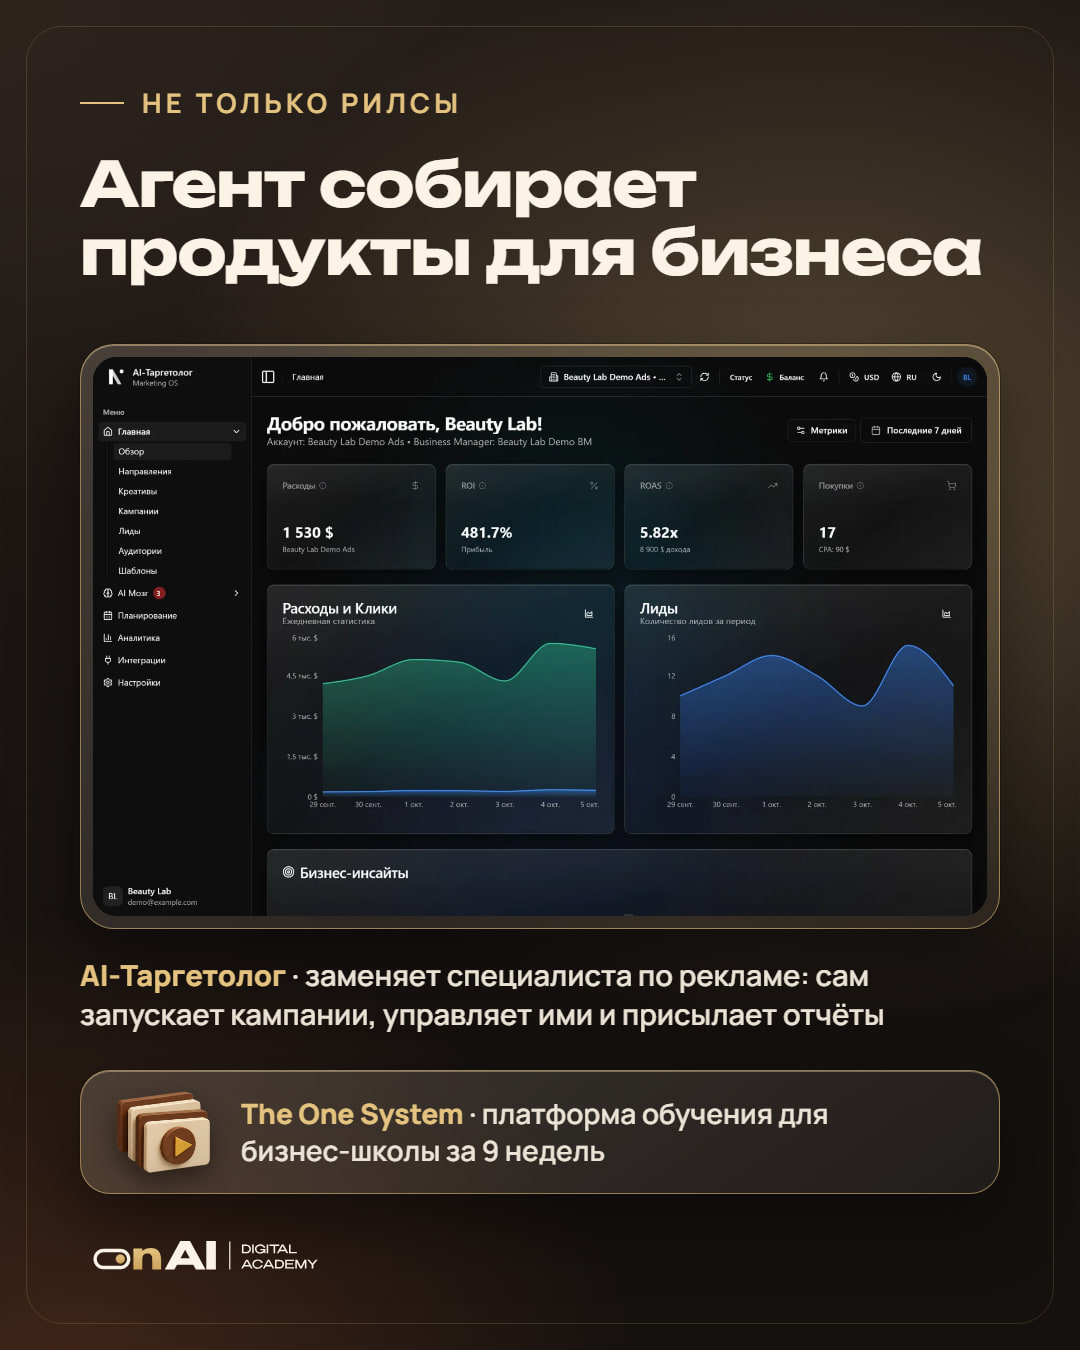
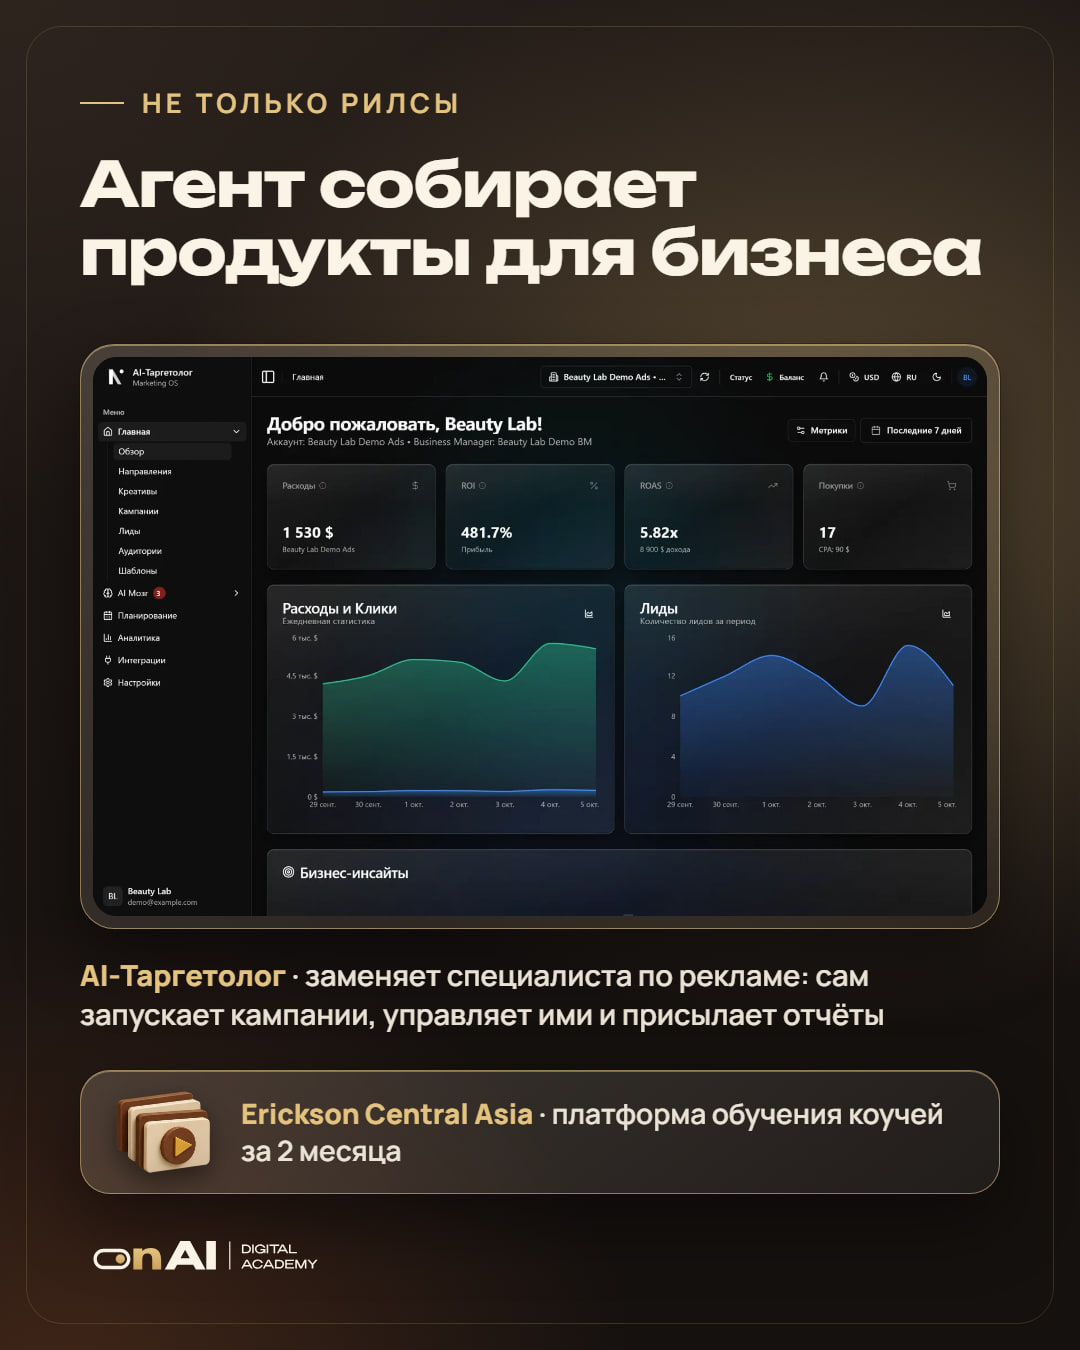
Рассылка: кейс Erickson вместо The One System (NDA) в сообщениях 17:00 и 18:00 и на карточке warm-cases

Changed region(s): [[0.2139, 0.8089, 0.8861, 0.8711]]

diff --git a/docs/tg-media/card.html b/docs/tg-media/card.html
@@ -96,7 +96,7 @@ const cards = {
     html: `${lab("НЕ ТОЛЬКО РИЛСЫ")}${head("Агент собирает продукты для бизнеса", 62)}
       <div class="glass f"><div class="in"><img src="../../public/montage/cases/ai-targetolog.webp" alt=""></div></div>
       <div class="cap"><b>AI-Таргетолог</b> · заменяет специалиста по рекламе: сам запускает кампании, управляет ими и присылает отчёты</div>
-      <div class="glass plaque"><div class="ic"><img src="${X3}lg-i-cards-x3.png" alt=""></div><div class="t"><b>The One System</b> · платформа обучения для <span style="white-space:nowrap">бизнес-школы</span> за 9&nbsp;недель</div></div>${LOGO}`
+      <div class="glass plaque"><div class="ic"><img src="${X3}lg-i-cards-x3.png" alt=""></div><div class="t"><b>Erickson Central Asia</b> · платформа обучения коучей за 2&nbsp;месяца</div></div>${LOGO}`
   },
   "topic-p1": topic("1", "ПРАКТИКА 1 ИЗ 3", "Рилс без знаний<br>монтажа", L + "lg-ch1-clapper.webp",
     "left:380px;top:590px;width:640px", "left:430px;top:1120px;width:560px;height:70px", "70%"),

diff --git a/docs/tasks/sales_decks_pdf_fix.md b/docs/tasks/sales_decks_pdf_fix.md
@@ -1,0 +1,30 @@
+# ТЗ, продолжение: презентации PDF (после обрыва сеанса) и замена кейса The One System на Erickson
+
+Основное ТЗ: `docs/tasks/sales_decks_pdf.md` (источники, стиль, сборка, проверки, замок). Всё оттуда действует.
+Репозиторий `C:\Проекты\wt-funnel`. Не коммитить, не пушить, на сервер не ходить, localhost не трогать.
+
+## Новое решение Александра (07.10.2026, 18:05), важнее плана и основного ТЗ
+
+**The One System не упоминать вообще** (NDA): ни названия, ни экранов, ни цифр. Вместо него кейс **Erickson Central Asia**, только текстом
+(экраны Erickson не ставить), факты строго с живой страницы onai.academy/saint/:
+- представительство Erickson Coaching International в Центральной Азии, готовит коучей по стандарту ICF;
+- команда onAI собрала платформу обучения коучей: уроки, практика, AI-куратор и запись к ментору, пять кабинетов (студент, куратор, тренер, ментор, администратор);
+- 2 месяца от первого созвона до запуска;
+- AI-куратор отвечает по урокам на русском и казахском;
+- сейчас на платформе учатся 6 групп (срез 04.10.2026).
+Остальные кейсы как в основном ТЗ (AI-Таргетолог без цифр клиентов, onAI Academy 1000+ выпускников, без «595 вопросов»).
+
+## Что сделать
+
+1. **Vibe Coding PRO** (`docs/sales-decks/pro/`, PDF уже есть): в слайде кейсов заменить The One System на Erickson по фактам выше, картинку The One System убрать
+   (вместо неё LEGO-объект или карточка без скриншота). Пересобрать `docs/sales-decks/pdf/Vibe Coding PRO.pdf` тем же `build_pdf.py`.
+2. **Vibe Production** (`docs/sales-decks/production/`) и **Два курса вместе** (`docs/sales-decks/bundle/`): прошлый исполнитель оборвался.
+   Посмотреть, что уже сделано в этих папках, доделать по основному ТЗ, без The One System. Удобнее собрать тем же способом, что PRO
+   (`docs/sales-decks/pro/build_pdf.py` на Python и готовый chromium, стиль из `pro/index.html`), чтобы три презентации выглядели одинаково.
+3. Проверка всех трёх PDF: поиск по тексту «One System», «—», «–», «299 900», «449 900», «59 900», «595» = 0; каждую страницу посмотреть глазами.
+
+Замок перед каждой сборкой PDF: `powershell -NoProfile -File C:\Проекты\_общее\heavy.ps1 take -who "Вебинар" -what "PDF ..."`, после `... release -who "Вебинар"`.
+
+## Отчёт (коротко)
+
+Пути к трём PDF, число страниц, размер, что не вошло.
